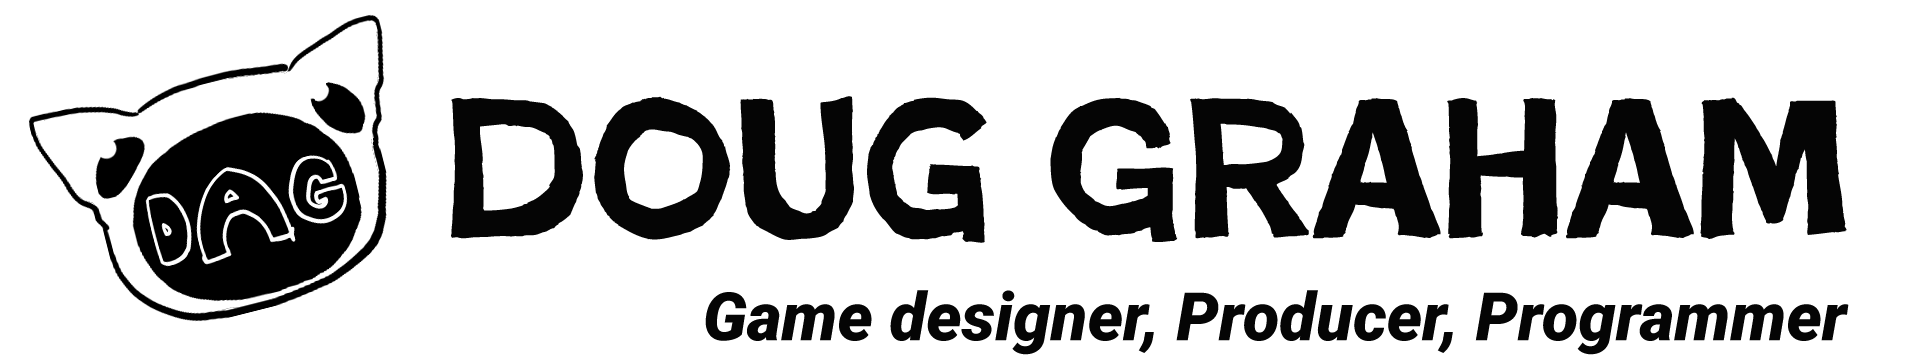
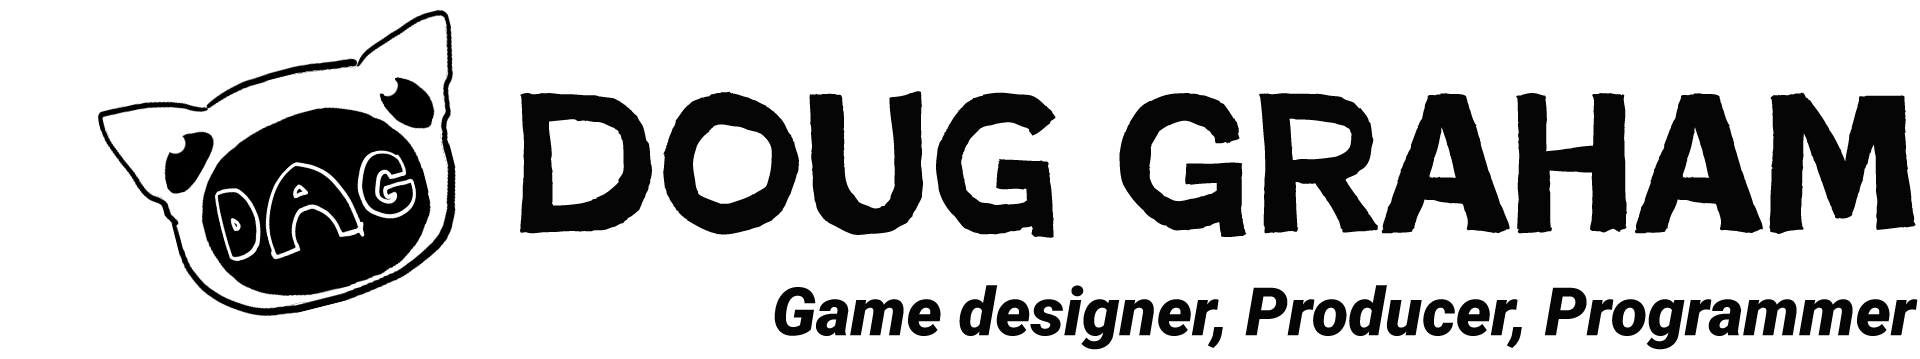
Add files via upload

Changed region(s): [[0.0, 0.0306, 1.0, 0.8886], [0.3438, 0.7967, 1.0, 0.9805]]

diff --git a/index.html b/index.html
@@ -197,7 +197,7 @@
   </svg>
 	
 	<header>
-    <img src="images/DAGTitle1.png" width="1490" alt=""/> </header>
+    <img src="images/DAGTitle1.png" width="1700" alt=""/> </header>
 	
   <img src="images/line1.png" width="1920" height="76" alt=""/>
 
